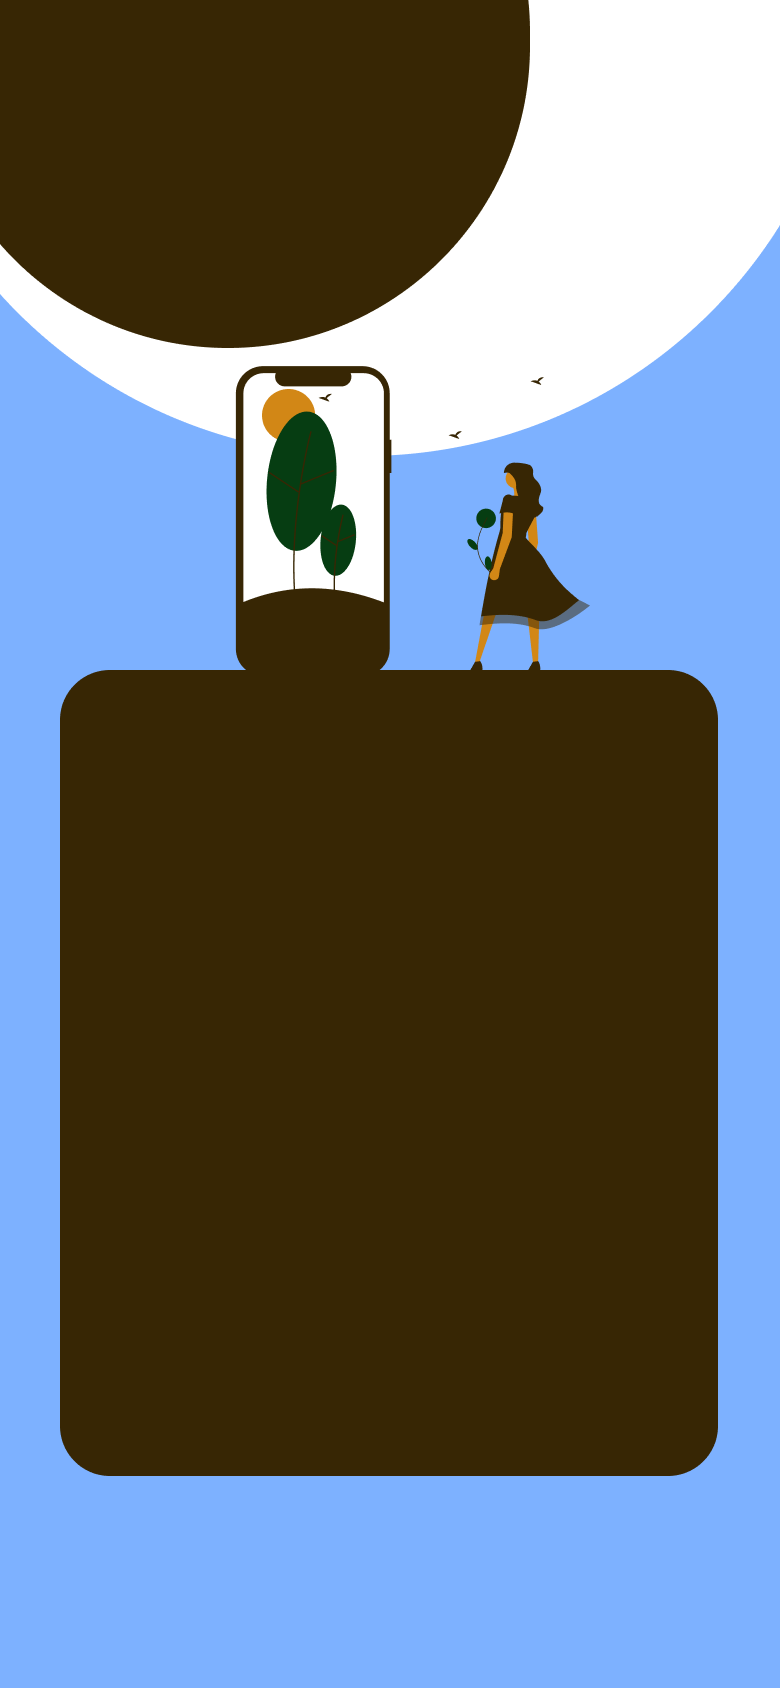
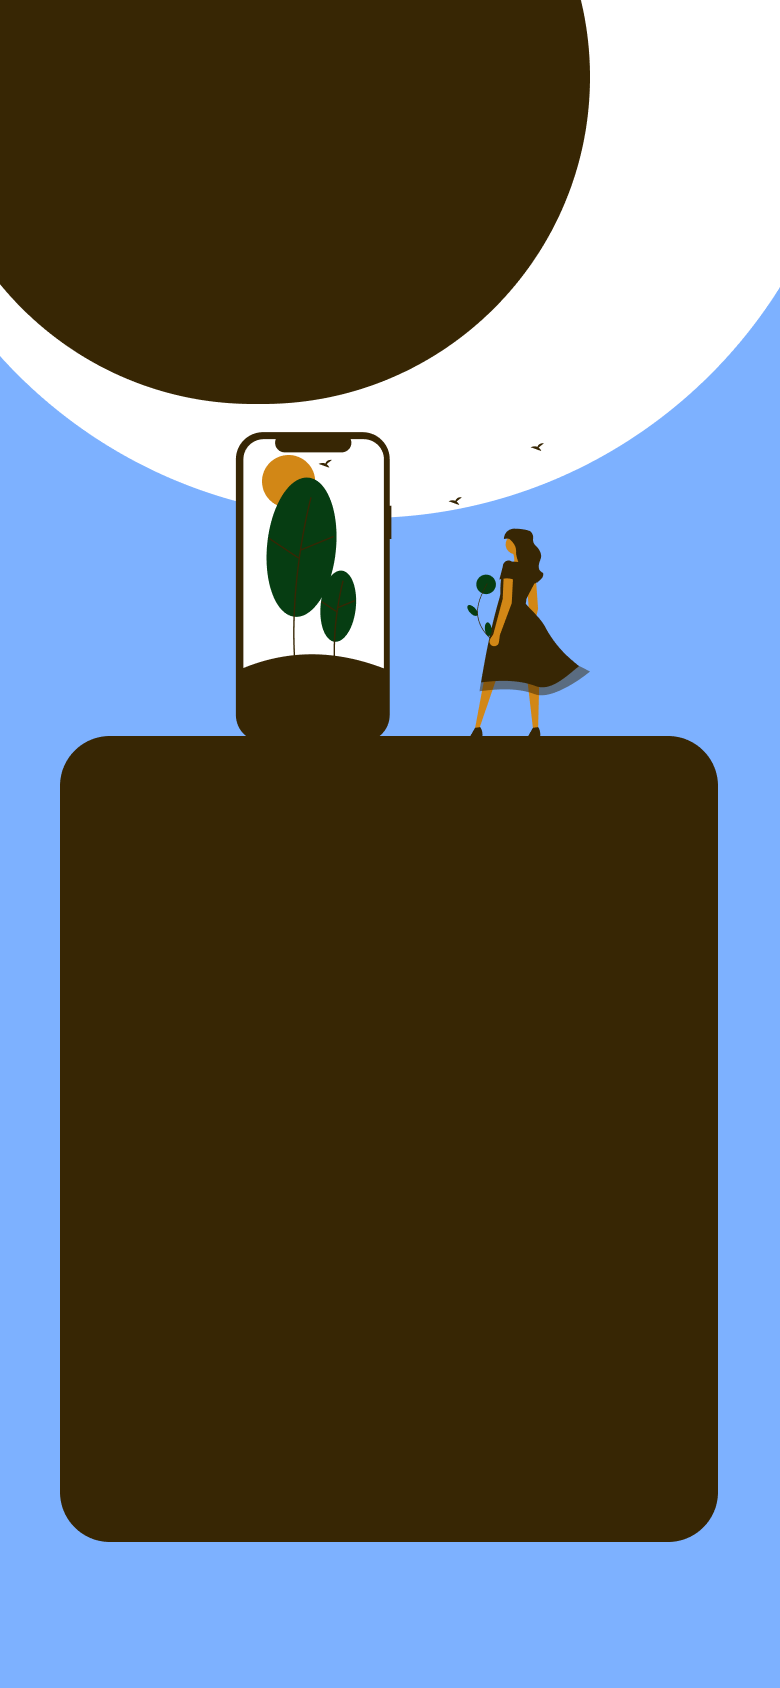
white button new parameter lengthLeft added.Sign up page completed

Changed region(s): [[0.0, 0.0, 1.0, 0.4621], [0.0615, 0.8626, 0.9231, 0.9242]]

diff --git a/code/Front_end/PlantIt_Front/components/layouts/SignUpLayout.js b/code/Front_end/PlantIt_Front/components/layouts/SignUpLayout.js
@@ -1,0 +1,52 @@
+import { StatusBar } from 'expo-status-bar';
+import { StyleSheet, Text, View ,Image,ImageBackground} from 'react-native';
+import ButtonWhite from "../items/ButtonWhite" ;
+import TitleTextView from '../items/TitleTextView';
+import TextInput01 from '../items/TextInput01';
+import ButtonBrown from '../items/ButtonBrown';
+
+
+function SignUpLayout(){
+    const image = require("./images/signUp.png");
+    return(
+        <ImageBackground source={image} style ={styles.container}>
+            
+            <View style={styles.container2}>
+                <TitleTextView title="Sign Up" heightFromTop="-190%" lengthLeft="-30%"></TitleTextView>
+                
+            </View>
+
+            
+            <TextInput01 text={"Password"} heightFromTop="35%"></TextInput01>
+            <TextInput01 text={"Username"} heightFromTop="-1%"></TextInput01>
+            <TextInput01 text={"Email"} heightFromTop="2%"></TextInput01>
+
+            <StatusBar style="auto" />
+
+            <ButtonWhite text={"sign up"} heightFromTop="330%" lengthLeft="17%"></ButtonWhite>
+
+        </ImageBackground>
+        
+     );
+};
+
+
+const styles = StyleSheet.create({
+    container: {
+      flex: 1,
+      backgroundColor: "#fff",
+      alignItems: 'center',
+      justifyContent: 'center',
+      
+      
+      
+    },
+
+    container2:{
+        flexDirection: "row",
+        gap:"2rem",
+        
+    },
+  });
+
+  export default SignUpLayout ;

diff --git a/code/Front_end/PlantIt_Front/components/items/ButtonWhite.js b/code/Front_end/PlantIt_Front/components/items/ButtonWhite.js
@@ -1,9 +1,9 @@
 import { View, Button, StyleSheet, TouchableOpacity, Text } from "react-native";
 
-export default function ButtonWhite({text, heightFromTop}) {
+export default function ButtonWhite({text, heightFromTop , lengthLeft}) {
     return(
         <TouchableOpacity>
-           <View style ={[styles.button, {top : heightFromTop} ]}>
+           <View style ={[styles.button, {top : heightFromTop},{left:lengthLeft} ]}>
                 <Text style={styles.buttonText}>{text}</Text>
            </View>
         </TouchableOpacity>

diff --git a/code/Front_end/PlantIt_Front/App.js b/code/Front_end/PlantIt_Front/App.js
@@ -1,12 +1,14 @@
 import TextInput01 from './components/items/TextInput01';
 import LoginLayout from './components/layouts/LoginLayout';
 import SignInLayout from "./components/layouts/SignInLayout";
+import SignUpLayout from './components/layouts/SignUpLayout';
 export default function App() {
 
   return (
     //<LoginLayout></LoginLayout>
     //<TextInput01 text={"ishta"}></TextInput01>
-    <SignInLayout></SignInLayout>
+    //<SignInLayout></SignInLayout>
+    <SignUpLayout></SignUpLayout>
   );
 }
 
